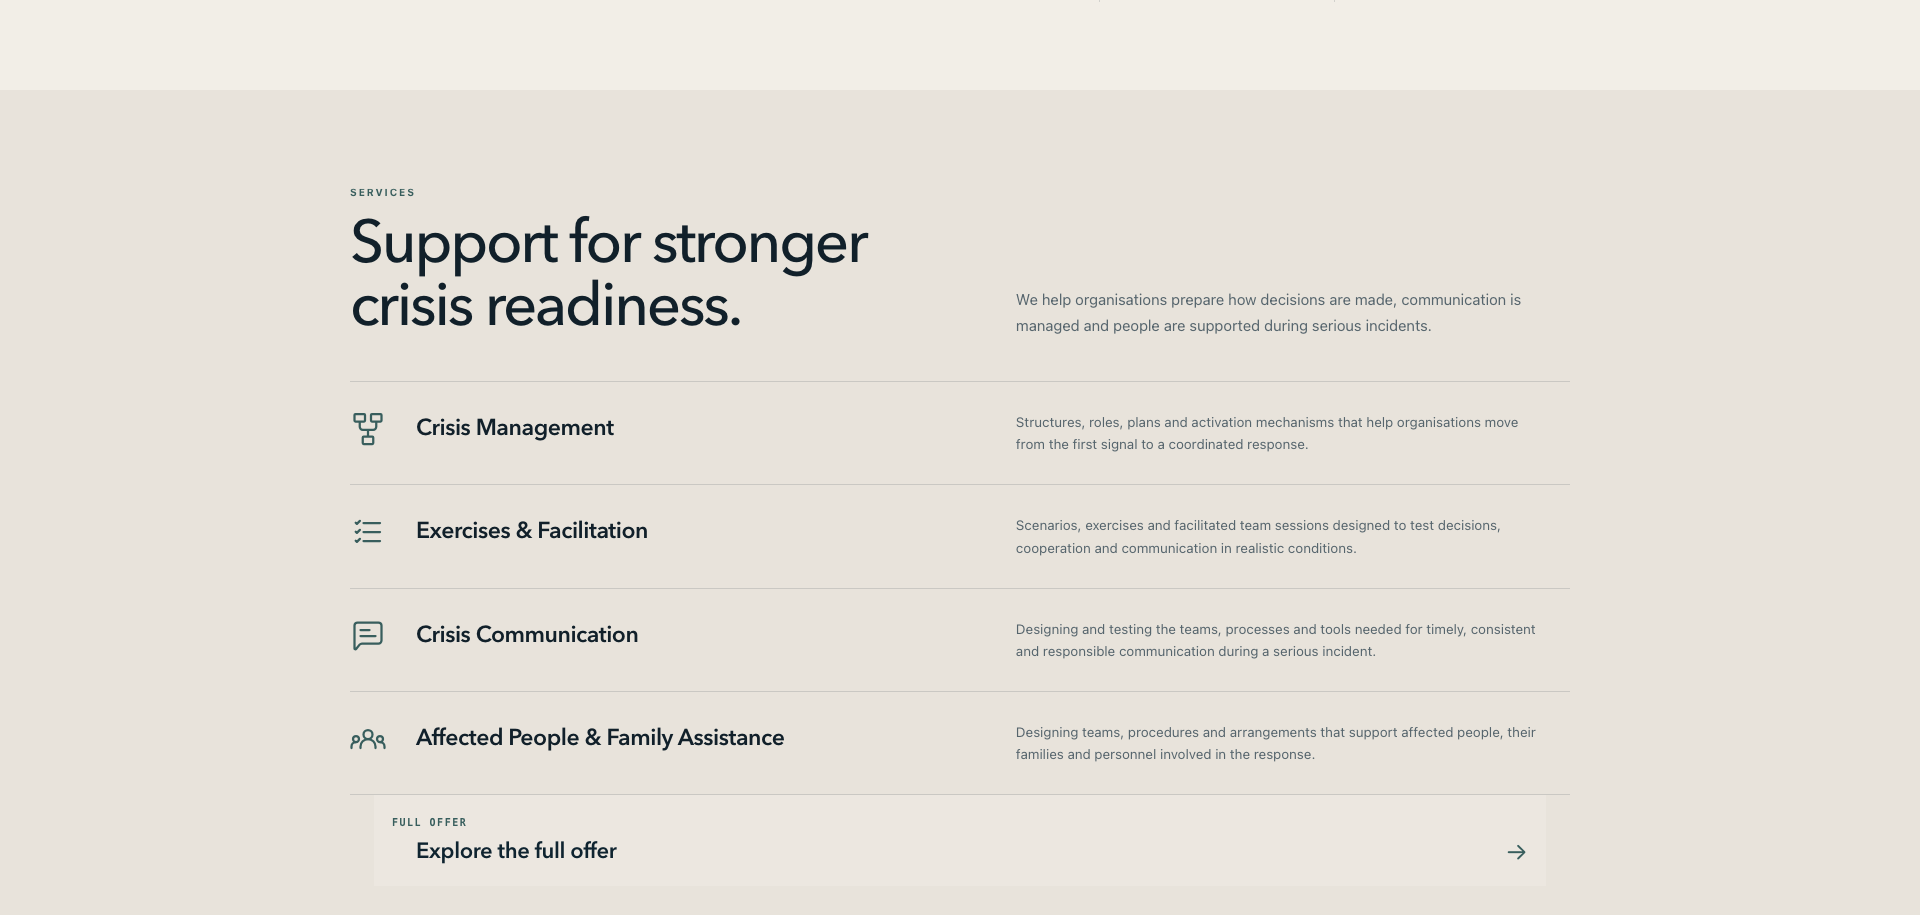
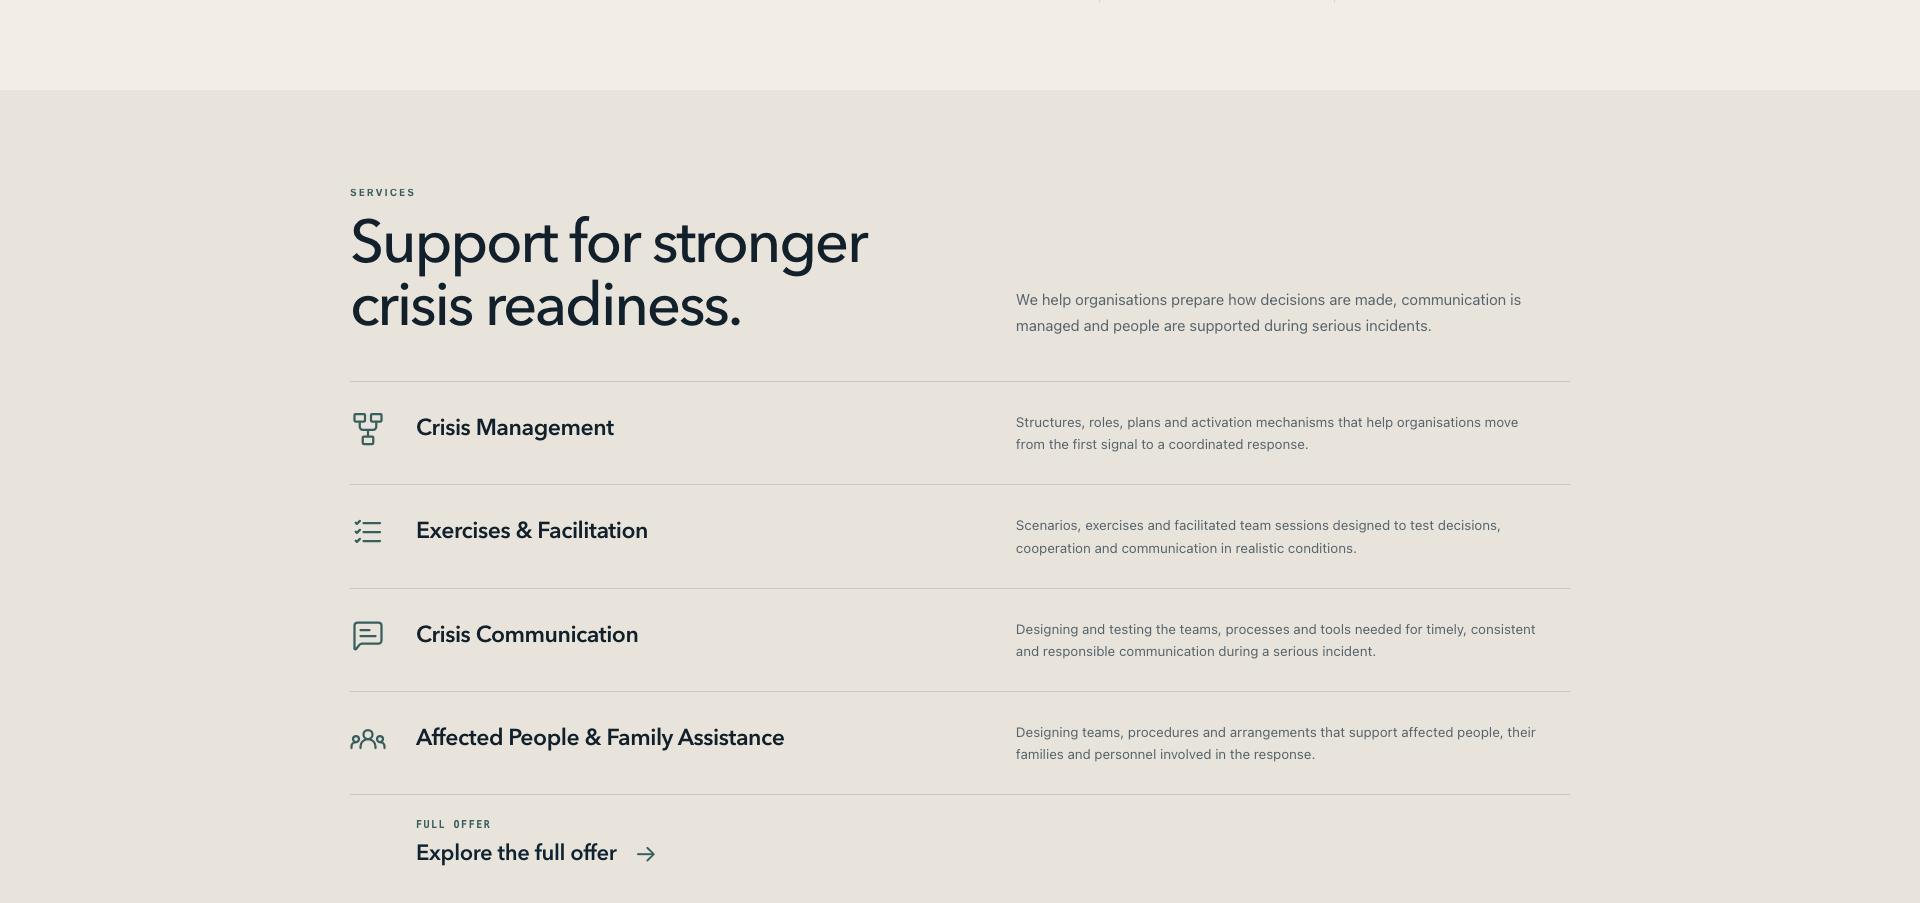
style: simplify homepage offer CTA on desktop

diff --git a/src/styles/global.css b/src/styles/global.css
@@ -811,15 +811,15 @@ summary:focus-visible {
 .services-cta-rail {
   display: grid;
   grid-template-areas:
-    "label label label"
-    ". text arrow";
-  grid-template-columns: 12px minmax(0, 1fr) auto;
+    "label label"
+    "text arrow";
+  width: fit-content;
   align-items: center;
-  gap: 8px 12px;
-  margin-inline: 24px;
-  padding: 20px 18px;
-  background: color-mix(in srgb, var(--paper-2) 60%, var(--paper) 40%);
-  transition: background-color 180ms ease;
+  grid-template-columns: max-content auto;
+  gap: 8px 18px;
+  margin-left: 66px;
+  padding: 22px 0 6px;
+  background: transparent;
 }
 
 .services-cta-label {
@@ -858,7 +858,7 @@ summary:focus-visible {
 }
 
 .services-cta-rail:hover {
-  background: color-mix(in srgb, var(--paper-2) 42%, var(--paper) 58%);
+  background: transparent;
 }
 
 .services-cta-rail:hover .services-cta-arrow {
@@ -3298,12 +3298,19 @@ summary:focus-visible {
       "text arrow";
     grid-template-columns: minmax(0, 1fr) auto;
     gap: 13px 18px;
+    width: auto;
     margin-inline: 8px;
     padding: 27px 16px;
+    background: color-mix(in srgb, var(--paper-2) 60%, var(--paper) 40%);
+    transition: background-color 180ms ease;
   }
 
   .services-section {
     padding-bottom: 26px;
+  }
+
+  .services-cta-rail:hover {
+    background: color-mix(in srgb, var(--paper-2) 42%, var(--paper) 58%);
   }
 
   .services-cta-text {
